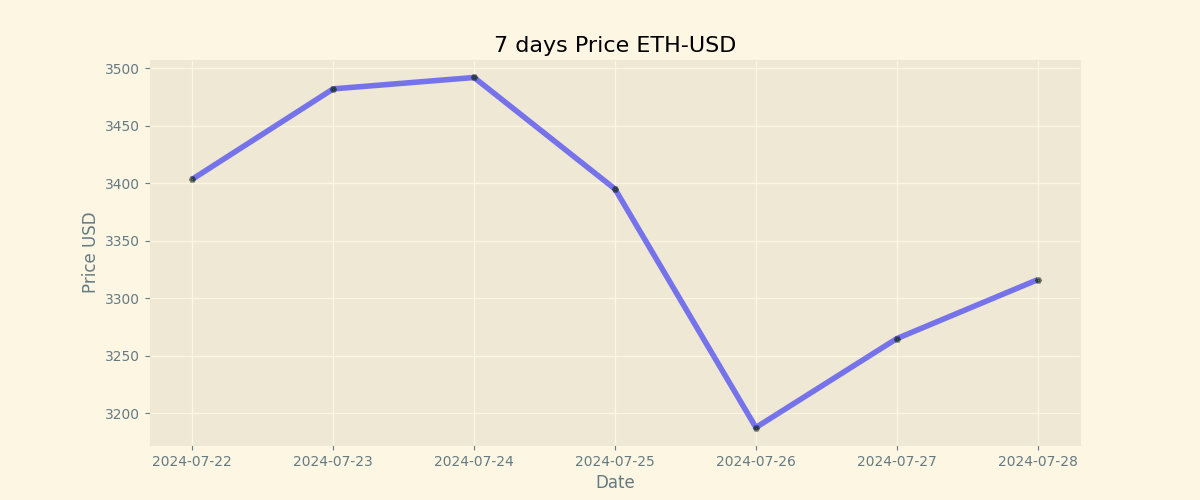
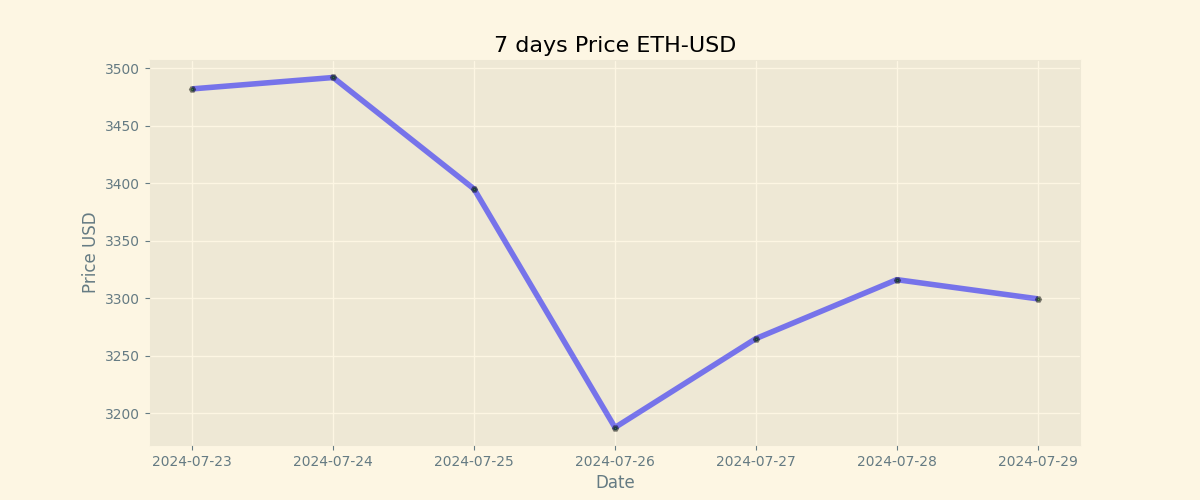
Duty Updates 2024-07-29

diff --git a/README.md b/README.md
@@ -9,8 +9,8 @@
 
 | Currency | Price           |
 | -------- | --------------- |
-| **BTC**  | **$ 67894.75** |
-| **ETH**  | **$ 3316.22** |
+| **BTC**  | **$ 67901.8** |
+| **ETH**  | **$ 3299.54** |
 
 ## BTC chart
 
